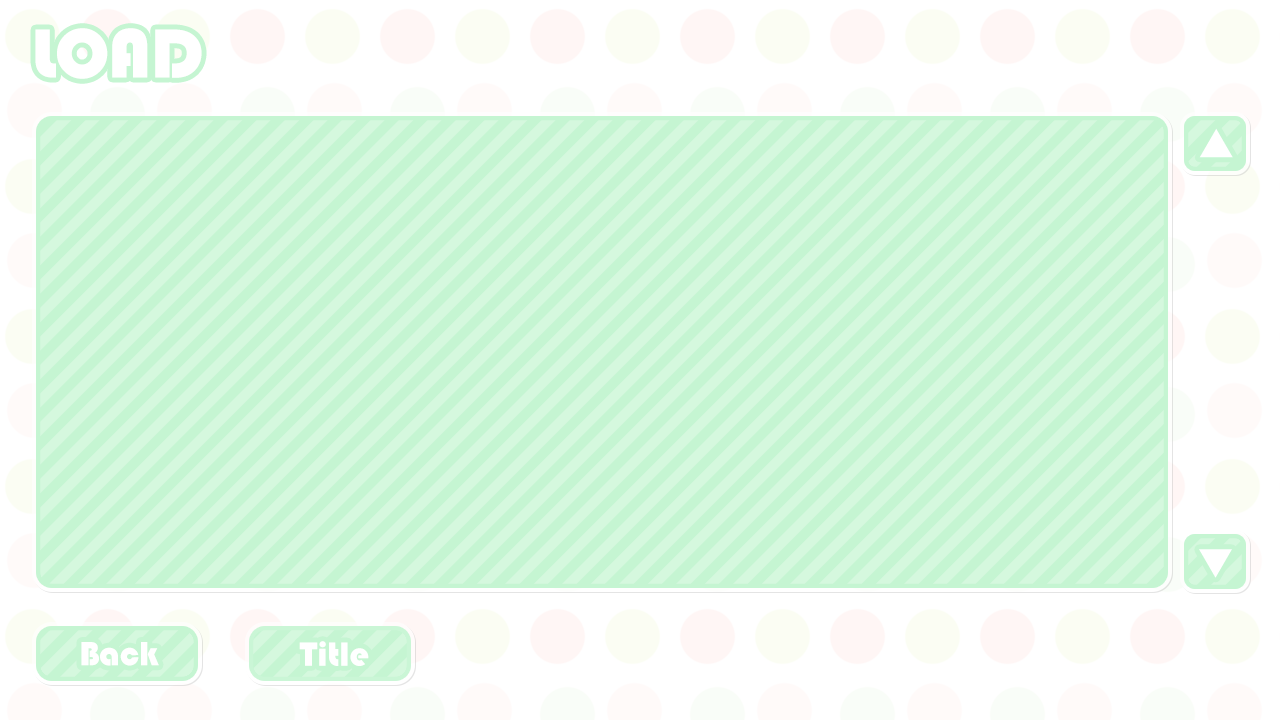
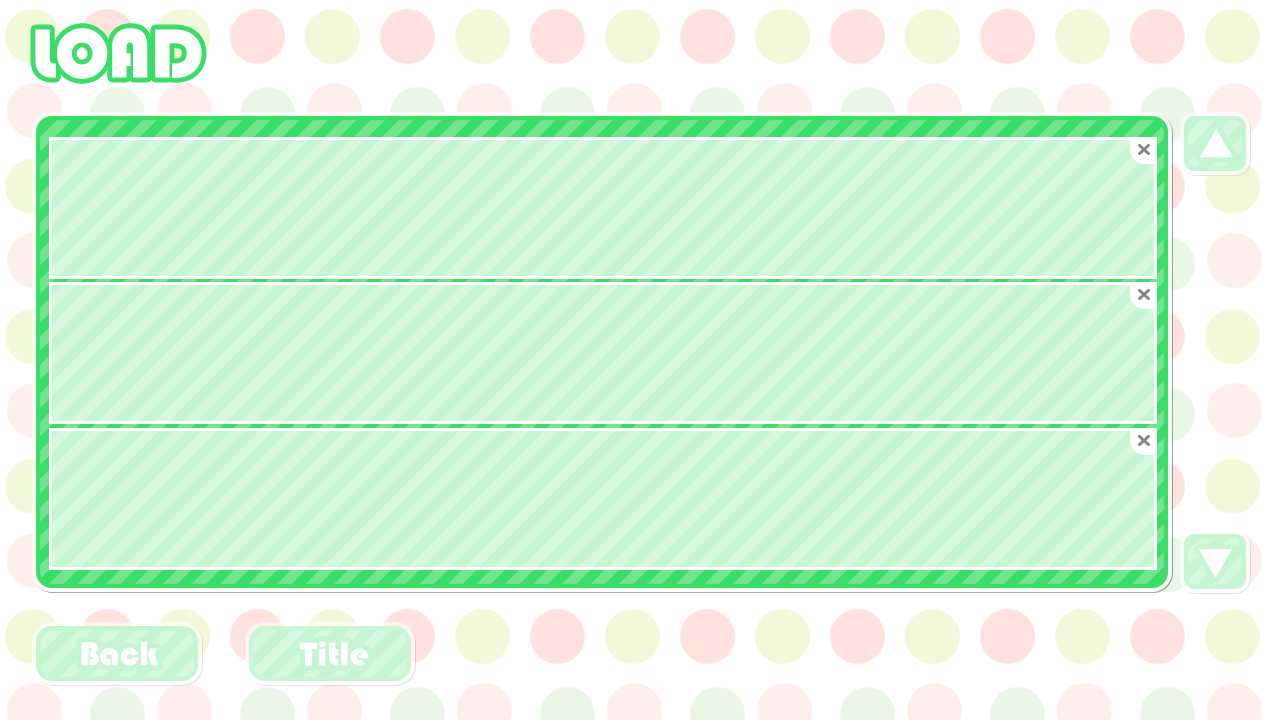
Add ability to delete save data

diff --git a/src/save.c b/src/save.c
@@ -112,6 +112,9 @@ static int page;
 /* ポイントされている項目のインデックス */
 static int pointed_index;
 
+/* 削除ボタンがポイントされているか */
+static bool is_delete_button_pointed;
+
 /* 前方参照 */
 static void load_button_conf(void);
 static void load_basic_save_data(void);
@@ -127,6 +130,7 @@ static bool process_left_press(int new_pointed_index, int *x, int *y, int *w,
 			       int *h);
 static void process_left_press_save_button(int new_pointed_index, int *x,
 					   int *y, int *w, int *h);
+static void process_delete(int new_pointed_index);
 static bool have_save_data(int new_pointed_index);
 static void play_se(const char *file);
 static bool process_save(int new_pointed_index);
@@ -498,21 +502,38 @@ static void draw_page_keep(void)
 /* ポイントされているボタンを返す */
 static int get_pointed_index(void)
 {
-	int i, pointed;
+	int i, pointed, rel_x, rel_y;
 
 	/* 領域を元にポイントされているボタンを求める */
 	pointed = -1;
 	for (i = 0; i < BUTTON_COUNT; i++) {
+		/* ボタンがポイントされているかチェックする */
 		if (mouse_pos_x >= button[i].x &&
 		    mouse_pos_x < button[i].x + button[i].w &&
 		    mouse_pos_y >= button[i].y &&
 		    mouse_pos_y < button[i].y + button[i].h) {
+			/* i番目のボタンがポイントされている */
 			pointed = i;
 			break;
 		}
 	}
 	if (pointed == -1)
 		return -1;
+
+	/* セーブデータ項目が選択されている場合 */
+	is_delete_button_pointed = false;
+	if (pointed >= BUTTON_ONE && pointed <= BUTTON_THREE) {
+		/* 削除ボタンがポイントされているかチェックする */
+		rel_x = mouse_pos_x - button[pointed].x;
+		rel_y = mouse_pos_y - button[pointed].y;
+		if (rel_x >= conf_save_data_delete_x &&
+		    rel_x <= conf_save_data_delete_x +
+			     conf_save_data_delete_width &&
+		    rel_y >= conf_save_data_delete_y &&
+		    rel_y < conf_save_data_delete_y +
+			    conf_save_data_delete_height)
+			is_delete_button_pointed = true;
+	}
 
 	/* 最初のページの場合、BUTTON_PREVを無効にする */
 	if (page == 0 && pointed == BUTTON_PREV)
@@ -705,9 +726,18 @@ static bool process_left_press(int new_pointed_index, int *x, int *y, int *w,
 	if (new_pointed_index == -1)
 		return true;
 
-	/* セーブデータのボタンの場合、セーブかロードを実行する */
+	/* セーブデータのボタンの場合 */
 	if (new_pointed_index >= BUTTON_ONE &&
 	    new_pointed_index <= BUTTON_THREE) {
+		/* 削除ボタンの領域がポイントされている場合 */
+		if (is_delete_button_pointed) {
+			/* 削除を処理する */
+			process_delete(new_pointed_index);
+			draw_page(x, y, w, h);
+			return true;
+		}
+
+		/* セーブかロードを実行する */
 		process_left_press_save_button(new_pointed_index, x, y, w, h);
 		if (is_save_mode) {
 			/* セーブを行う */
@@ -783,6 +813,45 @@ static void process_left_press_save_button(int new_pointed_index, int *x,
 
 	/* ポイントされている項目を更新する */
 	pointed_index = new_pointed_index;
+}
+
+/* セーブデータの削除を処理する */
+static void process_delete(int new_pointed_index)
+{
+	char s[128];
+	int index;
+
+	/* セーブデータ番号を求める */
+	index = page * PAGE_SLOTS + (new_pointed_index - BUTTON_ONE);
+
+	/* セーブデータがない場合、何もしない */
+	if (save_time[index] == 0)
+		return;
+
+	/* プロンプトを表示する */
+	if (!delete_dialog())
+		return;
+
+	/* ファイル名を求める */
+	snprintf(s, sizeof(s), "%03d.sav", index);
+
+	/* セーブファイルを削除する */
+	remove_file(SAVE_DIR, s);
+
+	/* セーブデータを消去する */
+	save_time[index] = 0;
+	if (save_title[index] != NULL) {
+		free(save_title[index]);
+		save_title[index] = NULL;
+	}
+	if (save_message[index] != NULL) {
+		free(save_message[index]);
+		save_message[index] = NULL;
+	}
+	if (save_thumb[index] != NULL) {
+		destroy_image(save_thumb[index]);
+		save_thumb[index] = NULL;
+	}
 }
 
 /* 選択された項目にセーブデータがあるか調べる */

diff --git a/src/nsmain.m b/src/nsmain.m
@@ -840,15 +840,17 @@ int get_stop_watch_lap(stop_watch_t *t)
 //
 bool exit_dialog(void)
 {
-    NSAlert *alert = [[NSAlert alloc] init];
-    [alert addButtonWithTitle:conf_language == NULL ? @"はい" : @"Yes"];
-    [alert addButtonWithTitle:conf_language == NULL ? @"いいえ" : @"No"];
-    [alert setMessageText:conf_language == NULL ?
-              @"終了しますか？" : @"Quit?"];
-    [alert setAlertStyle:NSWarningAlertStyle];
-    if ([alert runModal] == NSAlertFirstButtonReturn)
-        return true;
-    return false;
+    @autoreleasepool {
+        NSAlert *alert = [[NSAlert alloc] init];
+        [alert addButtonWithTitle:conf_language == NULL ? @"はい" : @"Yes"];
+        [alert addButtonWithTitle:conf_language == NULL ? @"いいえ" : @"No"];
+        [alert setMessageText:conf_language == NULL ?
+                  @"終了しますか？" : @"Quit?"];
+        [alert setAlertStyle:NSWarningAlertStyle];
+        if ([alert runModal] == NSAlertFirstButtonReturn)
+            return true;
+        return false;
+    }
 }    
 
 //
@@ -856,15 +858,37 @@ bool exit_dialog(void)
 //
 bool title_dialog(void)
 {
-    NSAlert *alert = [[NSAlert alloc] init];
-    [alert addButtonWithTitle:conf_language == NULL ? @"はい" : @"Yes"];
-    [alert addButtonWithTitle:conf_language == NULL ? @"いいえ" : @"No"];
-    [alert setMessageText:conf_language == NULL ? @"タイトルへ戻りますか？" :
-               @"Are you sure you want to go to title?"];
-    [alert setAlertStyle:NSWarningAlertStyle];
-    if ([alert runModal] == NSAlertFirstButtonReturn)
-        return true;
-    return false;
+    @autoreleasepool {
+        NSAlert *alert = [[NSAlert alloc] init];
+        [alert addButtonWithTitle:conf_language == NULL ? @"はい" : @"Yes"];
+        [alert addButtonWithTitle:conf_language == NULL ? @"いいえ" : @"No"];
+        [alert setMessageText:conf_language == NULL ?
+              @"タイトルへ戻りますか？" :
+              @"Are you sure you want to go to title?"];
+        [alert setAlertStyle:NSWarningAlertStyle];
+        if ([alert runModal] == NSAlertFirstButtonReturn)
+            return true;
+        return false;
+    }
+}
+
+//
+// 削除ダイアログを表示する
+//
+bool delete_dialog(void)
+{
+    @autoreleasepool {
+        NSAlert *alert = [[NSAlert alloc] init];
+        [alert addButtonWithTitle:conf_language == NULL ? @"はい" : @"Yes"];
+        [alert addButtonWithTitle:conf_language == NULL ? @"いいえ" : @"No"];
+        [alert setMessageText:conf_language == NULL ?
+              @"セーブデータを削除しますか？" :
+              @"Are you sure you want to delete the save data?"];
+        [alert setAlertStyle:NSWarningAlertStyle];
+        if ([alert runModal] == NSAlertFirstButtonReturn)
+            return true;
+        return false;
+    }
 }
 
 //

diff --git a/src/conf.c b/src/conf.c
@@ -170,6 +170,10 @@ int conf_save_data_margin_left;
 int conf_save_data_margin_top;
 int conf_save_data_thumb_width;
 int conf_save_data_thumb_height;
+int conf_save_data_delete_x;
+int conf_save_data_delete_y;
+int conf_save_data_delete_width;
+int conf_save_data_delete_height;
 int conf_save_data1_x;
 int conf_save_data1_y;
 int conf_save_data2_x;
@@ -391,6 +395,10 @@ struct rule {
 	{"save.data.margin.top", 'i', &conf_save_data_margin_top, false, false},
 	{"save.data.thumb.width", 'i', &conf_save_data_thumb_width, false, false},
 	{"save.data.thumb.height", 'i', &conf_save_data_thumb_height, false, false},
+	{"save.data.delete.x", 'i', &conf_save_data_delete_x, true, false},
+	{"save.data.delete.y", 'i', &conf_save_data_delete_y, true, false},
+	{"save.data.delete.width", 'i', &conf_save_data_delete_width, true, false},
+	{"save.data.delete.height", 'i', &conf_save_data_delete_height, true, false},
 	{"save.data1.x", 'i', &conf_save_data1_x, false, false},
 	{"save.data1.y", 'i', &conf_save_data1_y, false, false},
 	{"save.data2.x", 'i', &conf_save_data2_x, false, false},

diff --git a/src/winmain.c b/src/winmain.c
@@ -1457,8 +1457,20 @@ bool title_dialog(void)
 	const char *pszMsg = conf_language == NULL ?
 		"タイトルに戻りますか？" :
 		"Are you sure you want to go to title?";
-	if (MessageBox(hWndMain, pszMsg, mbszTitle, MB_OKCANCEL)
-		== IDOK)
+	if (MessageBox(hWndMain, pszMsg, mbszTitle, MB_OKCANCEL) == IDOK)
+		return true;
+	return false;
+}
+
+/*
+ * 削除ダイアログを表示する
+ */
+bool delete_dialog(void)
+{
+	const char *pszMsg = conf_language == NULL ?
+		"セーブデータを削除しますか？" :
+		"Are you sure you want to delete the save data?";
+	if (MessageBox(hWndMain, pszMsg, mbszTitle, MB_OKCANCEL) == IDOK)
 		return true;
 	return false;
 }

diff --git a/src/file.c b/src/file.c
@@ -481,3 +481,24 @@ void close_wfile(struct wfile *wf)
 	fclose(wf->fp);
 	free(wf);
 }
+
+/*
+ * ファイルを削除する
+ */
+void remove_file(const char *dir, const char *file)
+{
+	char *path;
+
+	/* パスを生成する */
+	path = make_valid_path(dir, file);
+	if (path == NULL) {
+		log_memory();
+		return;
+	}
+
+	/* ファイルを削除する */
+	remove(path);
+
+	/* パスの文字列を解放する */
+	free(path);
+}

diff --git a/src/conf.h b/src/conf.h
@@ -180,6 +180,10 @@ extern int conf_save_data_margin_left;
 extern int conf_save_data_margin_top;
 extern int conf_save_data_thumb_width;
 extern int conf_save_data_thumb_height;
+extern int conf_save_data_delete_x;
+extern int conf_save_data_delete_y;
+extern int conf_save_data_delete_width;
+extern int conf_save_data_delete_height;
 extern int conf_save_data1_x;
 extern int conf_save_data1_y;
 extern int conf_save_data2_x;

diff --git a/src/platform.h b/src/platform.h
@@ -88,6 +88,9 @@ bool exit_dialog(void);
 /* タイトルに戻るダイアログを表示する */
 bool title_dialog(void);
 
+/* 削除ダイアログを表示する */
+bool delete_dialog(void);
+
 /* ビデオを再生する */
 bool play_video(const char *fname, bool is_skippable);
 

diff --git a/src/ndkmain.c b/src/ndkmain.c
@@ -436,6 +436,15 @@ bool title_dialog(void)
 }
 
 /*
+ * 削除ダイアログを表示する
+ */
+bool delete_dialog(void)
+{
+	/* stub */
+	return true;
+}
+
+/*
  * サウンドが再生終了したか調べる
  */
 bool is_sound_finished(int stream)

diff --git a/src/emmain.c b/src/emmain.c
@@ -593,6 +593,15 @@ bool title_dialog(void)
 }
 
 /*
+ * 削除ダイアログを表示する
+ */
+bool delete_dialog(void)
+{
+	/* stub */
+	return true;
+}
+
+/*
  * ビデオを再生する
  */
 bool play_video(const char *fname, bool is_skippable)

diff --git a/src/iosmain.m b/src/iosmain.m
@@ -614,6 +614,14 @@ bool title_dialog(void)
 }
 
 //
+// 削除ダイアログを表示する
+//
+bool delete_dialog(void)
+{
+	return true;
+}
+
+//
 // ビデオを再生する
 //
 bool play_video(const char *fname, bool is_skippable)

diff --git a/src/file.h b/src/file.h
@@ -118,4 +118,9 @@ size_t write_wfile(struct wfile *wf, const void *buf, size_t size);
  */
 void close_wfile(struct wfile *wf);
 
+/*
+ * ファイルを削除する
+ */
+void remove_file(const char *dir, const char *file);
+
 #endif
